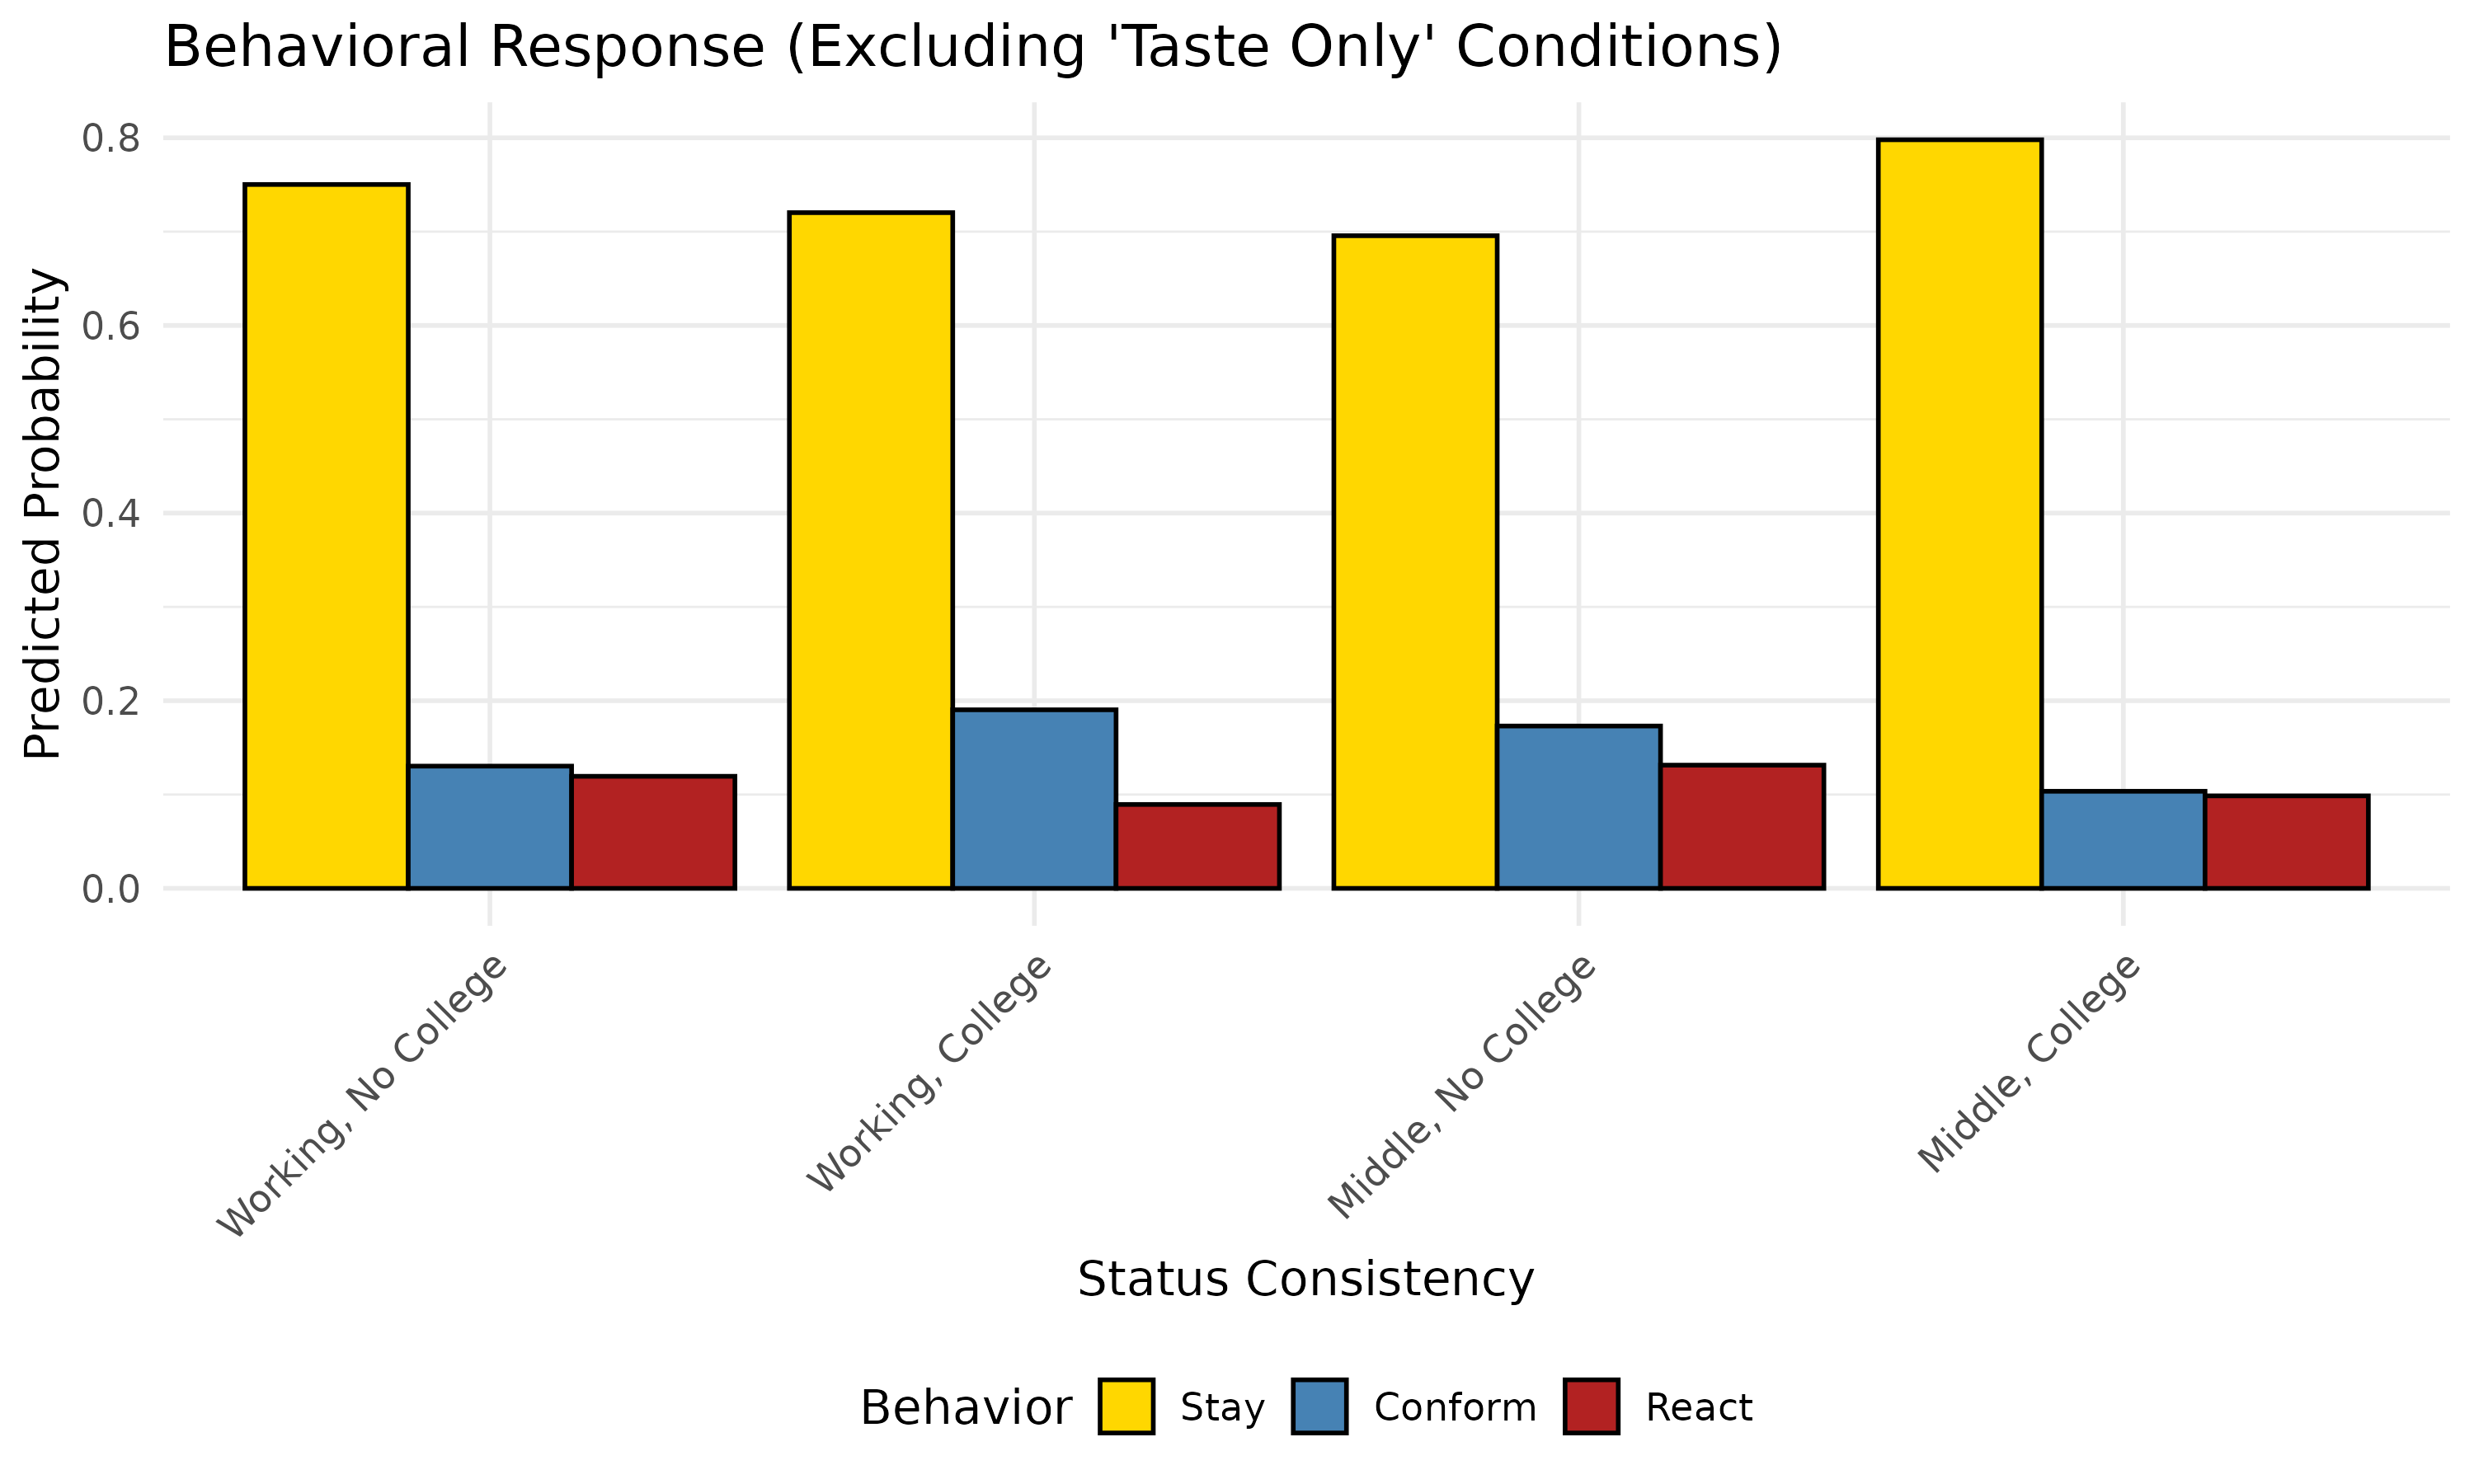
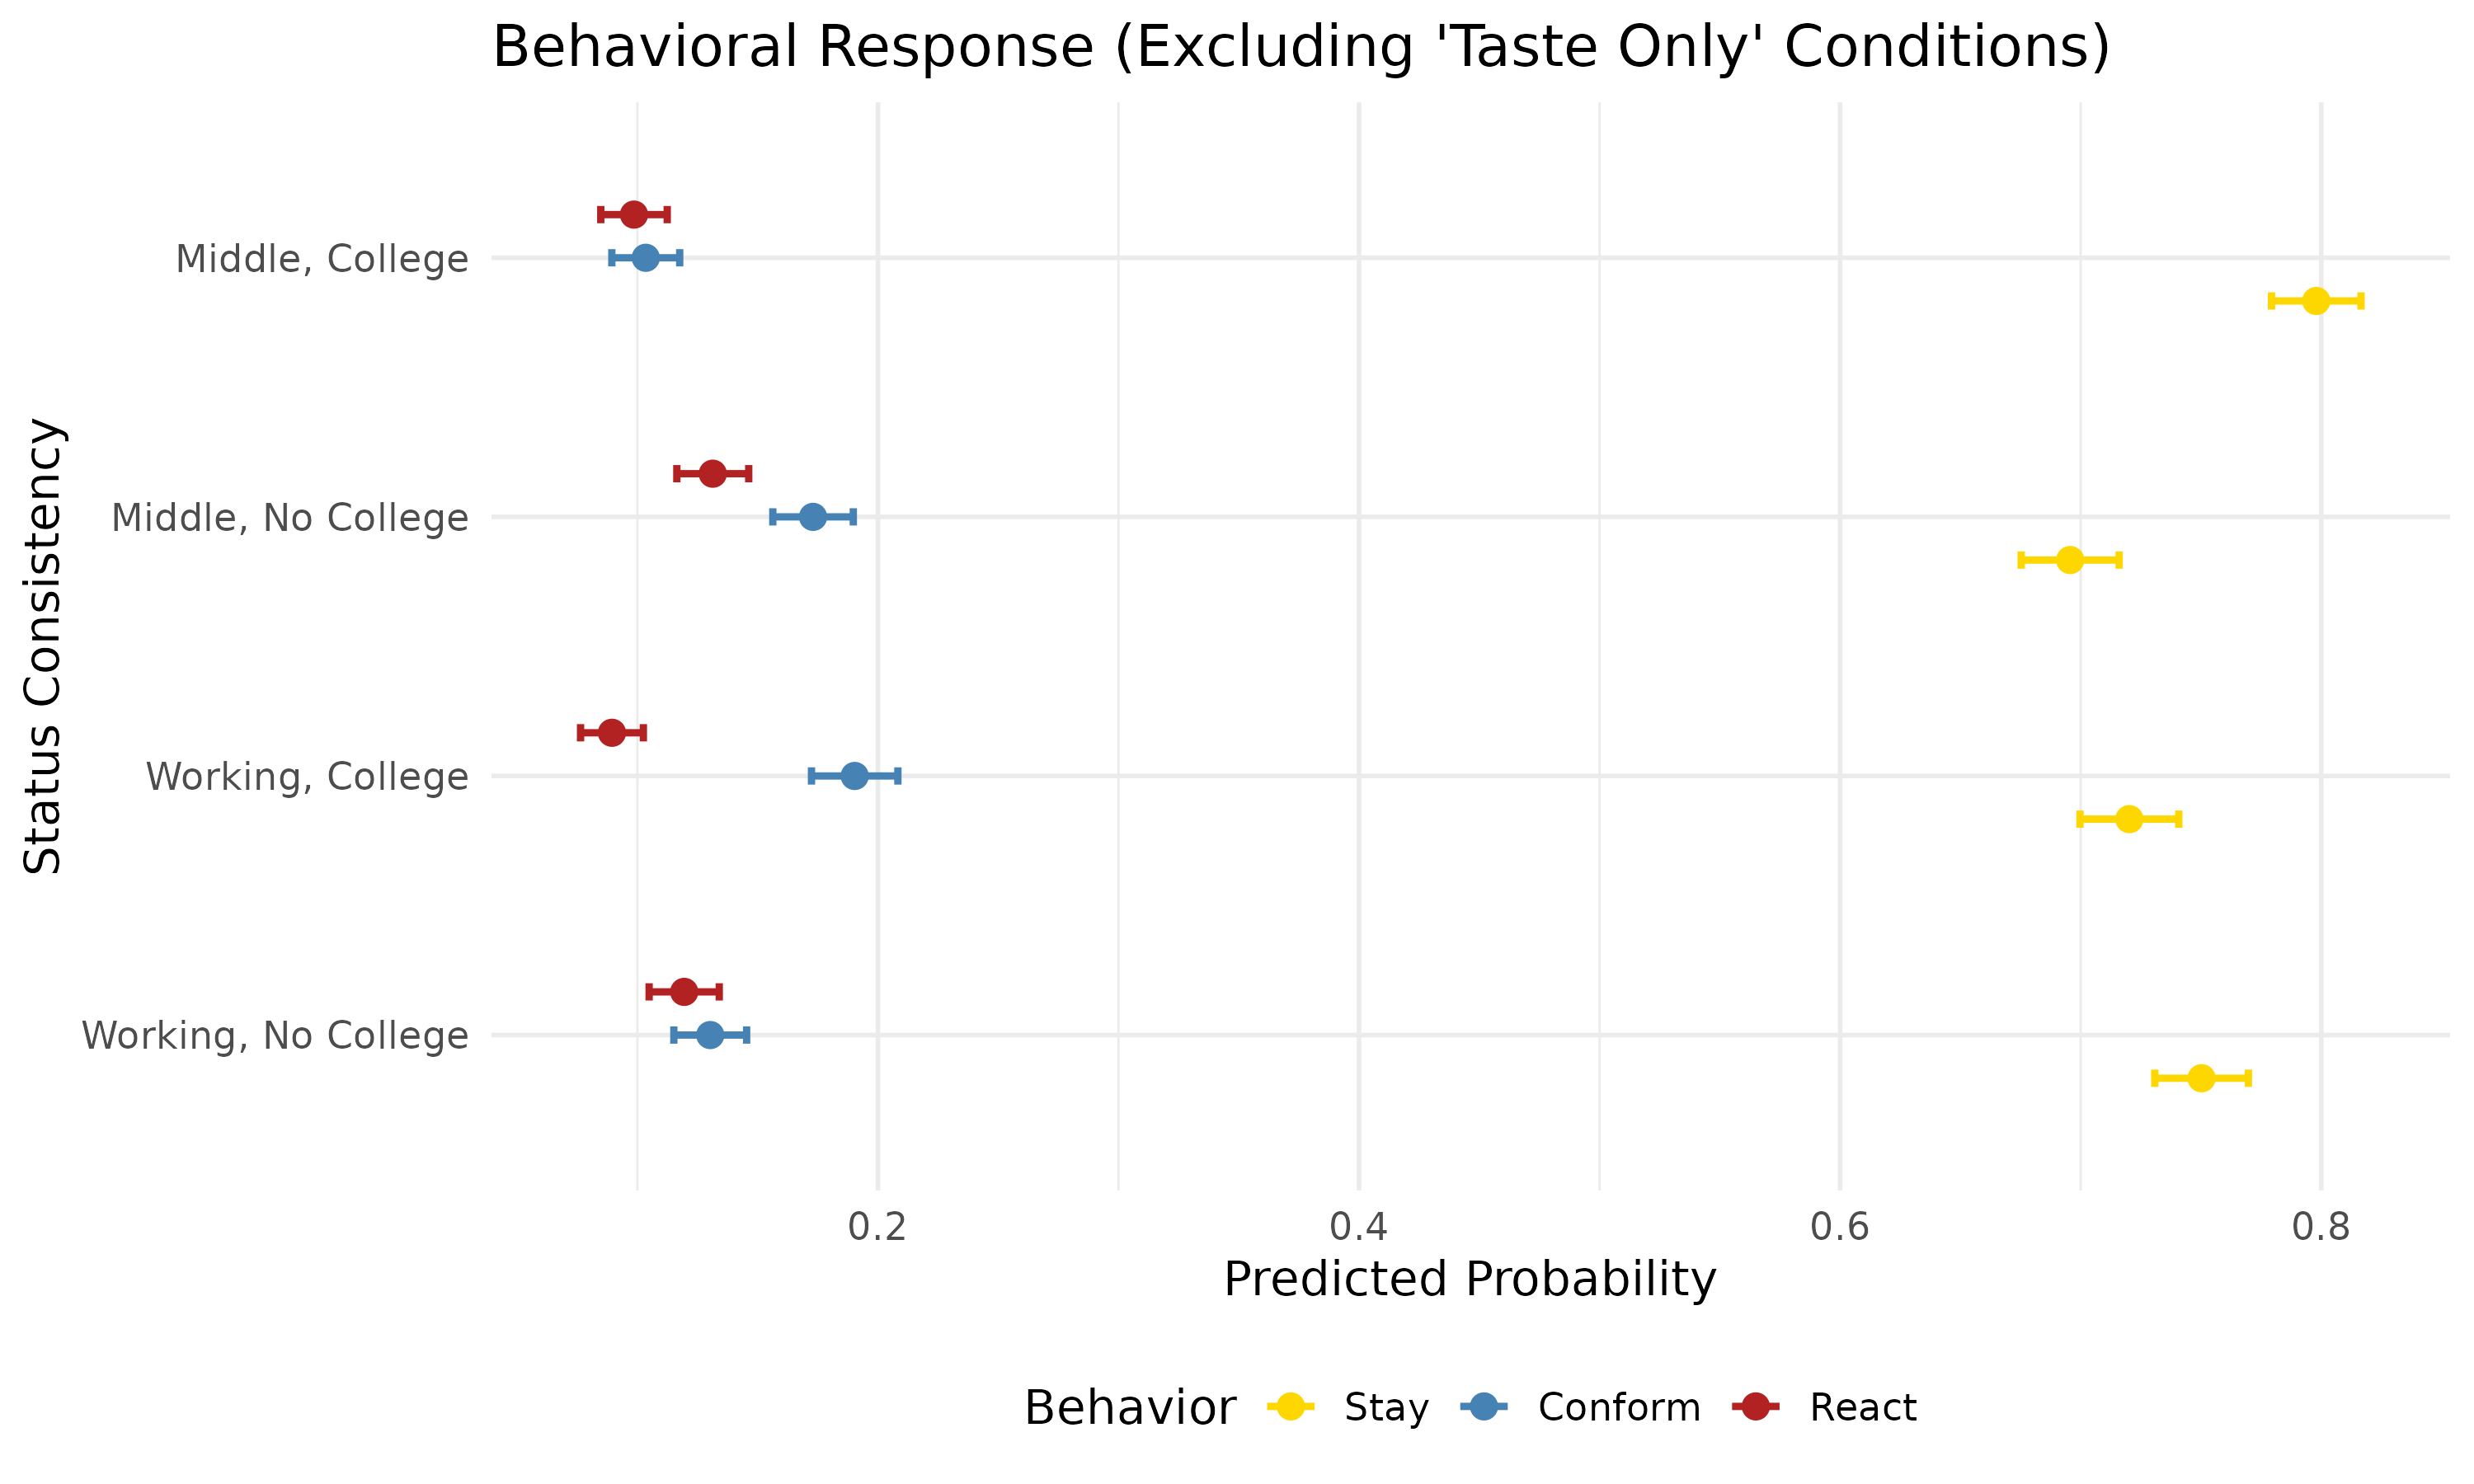
Converted bullet point lists to full paragraphs in text

diff --git a/manuscript.tex b/manuscript.tex
@@ -57,12 +57,7 @@ Overall, we expect that mere exposure to the same cultural object across repeate
     \item \textbf{Negative Evaluations:} Negative evaluations (disliking) from generalized others should have an overall negative influence on the respondent’s second evaluation, blocking the mere exposure effect.
 \end{itemize}
 
-\textbf{Status Plus Evaluation Conditions (Cross-Status Reactance and Symbolic Power):}
-\begin{itemize}
-    \item \textbf{Hypothesis 1 (Same-status alignment):} Individuals will adjust their judgments to align with the aggregate judgment of their status peers. High (low) status respondents will change their judgments in a positive direction when exposed to the positive judgments of others of high (low) status, and in a negative direction when exposed to their negative judgments.
-    \item \textbf{Hypothesis 2 (Symbolic power/upward alignment):} Low-status respondents will align their judgments with the aggregate judgments of high-status others, adopting their positive evaluations and conforming to their negative evaluations.
-    \item \textbf{Hypothesis 3 (Cross-status reactance):} Individuals will distance themselves from the aggregate judgments of out-group members (particularly low-status others). Thus, high (low) status respondents will shift their judgments negatively when exposed to the positive judgment of others of low (high) status, and positively when exposed to their negative judgment.
-\end{itemize}
+When examining status plus evaluation conditions involving cross-status reactance and symbolic power, we advance three primary hypotheses. First, Hypothesis 1 (same-status alignment) posits that individuals will adjust their judgments to align with the aggregate judgment of their status peers. That is, both high- and low-status respondents will change their judgments in a positive direction when exposed to the positive judgments of others sharing their status, and in a negative direction when exposed to their negative judgments. Second, Hypothesis 2 (symbolic power and upward alignment) predicts that low-status respondents will align their judgments with the aggregate judgments of high-status others, adopting their positive evaluations and conforming to their negative evaluations. Finally, Hypothesis 3 (cross-status reactance) suggests that individuals will distance themselves from the aggregate judgments of out-group members, particularly low-status others. Thus, respondents will shift their judgments negatively when exposed to the positive judgment of an out-group, and positively when exposed to their negative judgment.
 
 \section{Data and Methods}
 
@@ -80,28 +75,15 @@ All respondents viewed an image of the same painting: \textit{Nocturne: Batterse
 
 The experimental protocol proceeded as follows: Respondents first gave their initial impression of the painting on a 1--7 scale ranging from ``like it very much'' to ``dislike it very much.'' This expression serves as a baseline measure of taste, uninfluenced by external information. Next, respondents in the treatment groups were told that the group of people most likely to either like or dislike the painting possessed specific education and occupation characteristics.
 
-The treatment conditions vary along three dimensions regarding this fictional alter group:
-\begin{enumerate}
-    \item \textbf{Taste Evaluation:} Whether the alter group \textit{liked} or \textit{disliked} the artwork.
-    \item \textbf{Status of the Alter:} High-status (College educated/Middle class) versus Low-status (Working class/No college).
-    \item \textbf{Control/No Status:} Conditions where only the alter's taste is known, but no class information is provided, as well as a pure baseline control.
-\end{enumerate}
+The treatment conditions vary along three dimensions regarding this fictional alter group. The first dimension is taste evaluation, denoting whether the alter group liked or disliked the artwork. The second dimension is the status of the alter, contrasting high-status individuals (characterized by a college education and middle-class standing) with low-status individuals (working class and lacking a college degree). The final dimension is the control or no-status condition, which includes scenarios where only the alter's taste is known without providing any class information, alongside a pure baseline control group.
 
 \subsection{Variables}
-\begin{itemize}
-    \item \textbf{Dependent Variable:} The primary outcome is the shift in aesthetic evaluation. We analyze this as a continuous change score, an ordinal structure using Cumulative Link Mixed Models (CLMM), and a nominal behavioral outcome (Stay, Conform, React).
-    \item \textbf{Independent Variables:} The experimental condition factors.
-    \item \textbf{Moderators:} Respondent status consistency, captured by Working/Middle Class crossed with College/No College.
-\end{itemize}
+The primary dependent variable in this study is the shift in aesthetic evaluation across the two trials. We analyze this outcome in several ways: as a continuous change score, through an ordinal structure using Cumulative Link Mixed Models (as detailed in the appendix), and as a nominal behavioral outcome categorized as staying, conforming, or reacting. The independent variables consist of the various experimental condition factors indicating the alter group's status and evaluation. Furthermore, we include respondent status consistency as a moderating variable, captured by crossing working- or middle-class identification with the presence or absence of a college degree.
 
 \subsection{Analytic Strategy}
 Our data consists of repeated measures (before and after providing access to others' evaluations) of the respondent’s aesthetic evaluation of a cultural object. Because repeated measures are correlated within subjects (but independent across subjects), we rely on random-effects models as a natural framework to simultaneously model within and between subjects variance. We use hierarchically nested versions of the mixed-effects model via maximum likelihood and use likelihood ratio tests to select the best fit.
 
-To overcome the limitations of standard linear regression and fully test our hypotheses regarding alignment vs. distancing, we additionally employ two advanced modeling techniques:
-\begin{enumerate}
-    \item \textbf{Multinomial Logistic Regression:} While linear mixed models estimate the \textit{average} magnitude and direction of shifts, they obscure the underlying distribution of behaviors (e.g., an average shift of zero could mean complete rigidity, or it could mean polarized halves of conformity and reactance canceling each other out). We use a Multinomial Logistic Regression to explicitly model the discrete probabilities of three theoretically distinct behaviors: maintaining one's evaluation (Staying), moving toward the group (Conforming), or moving away from the group (Reacting).
-    \item \textbf{Propensity Score Weighting (IPW):} We employ Inverse Probability Weighting on all models to balance demographic covariates (age, gender, race, parent's education) across observational status groups, ensuring that the estimated moderating effects of class are not confounded by other demographic differences.
-\end{enumerate}
+To overcome the limitations of standard linear regression and fully test our hypotheses regarding alignment versus distancing, we additionally employ two advanced modeling techniques. First, we utilize multinomial logistic regression. While linear mixed models estimate the average magnitude and direction of shifts, they obscure the underlying distribution of behaviors. For example, an average shift of zero could mean complete rigidity, or it could mean polarized halves of conformity and reactance canceling each other out. To address this, we use a multinomial logistic regression to explicitly model the discrete probabilities of three theoretically distinct behaviors: maintaining one's evaluation (staying), moving toward the group (conforming), or moving away from the group (reacting). Second, we employ inverse probability weighting (IPW) on all models to balance demographic covariates---including age, gender, race, and parental education---across the observational status groups. This ensures that the estimated moderating effects of class are not confounded by other demographic differences.
 
 All results reported below utilize these IPW weights to ensure unbiased estimates of the status interactions.
 
@@ -168,13 +150,7 @@ To ensure that the results are driven by the \textit{class status} of the fictio
 The probability distributions of conformity versus reactance remain highly consistent with the main findings, confirming that the presence of class-based status information uniquely structures the evaluation shifts of respondents.
 
 \section{Discussion and Conclusion}
-Our analysis demonstrates that aesthetic judgments are deeply malleable, but not uniformly so. The findings advance the sociology of culture in several ways:
-
-\begin{enumerate}
-    \item \textbf{Directionality Matters:} By replacing a binary ``stay/shift'' conceptualization with a multinomial ``stay/conform/react'' framework, we reveal that cultural influence involves both emulation and boundary-drawing.
-    \item \textbf{Status Inconsistency as a Driver of Change:} Respondents with inconsistent status markers (e.g., Working class with a college degree, or Middle class without) are the most aesthetically fluid. However, they resolve this fluidity differently, leaning heavily into reactance or conformity depending on their exact social location.
-    \item \textbf{Methodological Rigor:} By employing Cumulative Link Mixed Models and Propensity Score Weighting, we establish that these dynamics are neither statistical artifacts of ordinal scales nor observational confounding. 
-\end{enumerate}
+Our analysis demonstrates that aesthetic judgments are deeply malleable, but not uniformly so, advancing the sociology of culture in several ways. Primarily, the findings highlight that directionality matters. By replacing a binary ``stay/shift'' conceptualization with a multinomial ``stay/conform/react'' framework, we reveal that cultural influence involves active processes of both emulation and boundary-drawing. Additionally, we identify status inconsistency as a critical driver of change. Respondents with inconsistent status markers, such as working-class individuals with a college degree or middle-class individuals without one, are the most aesthetically fluid. Crucially, they resolve this fluidity differently, leaning heavily into either reactance or conformity depending on their exact social location. Finally, the methodological rigor introduced by incorporating propensity score weighting and validating with ordinal models establishes that these dynamics represent structural sociological realities, rather than statistical artifacts of ordinal scales or observational confounding.
 
 Taste is indeed a social product, shaped continuously by class consciousness, educational capital, and the omnipresent evaluation of our peers.
 